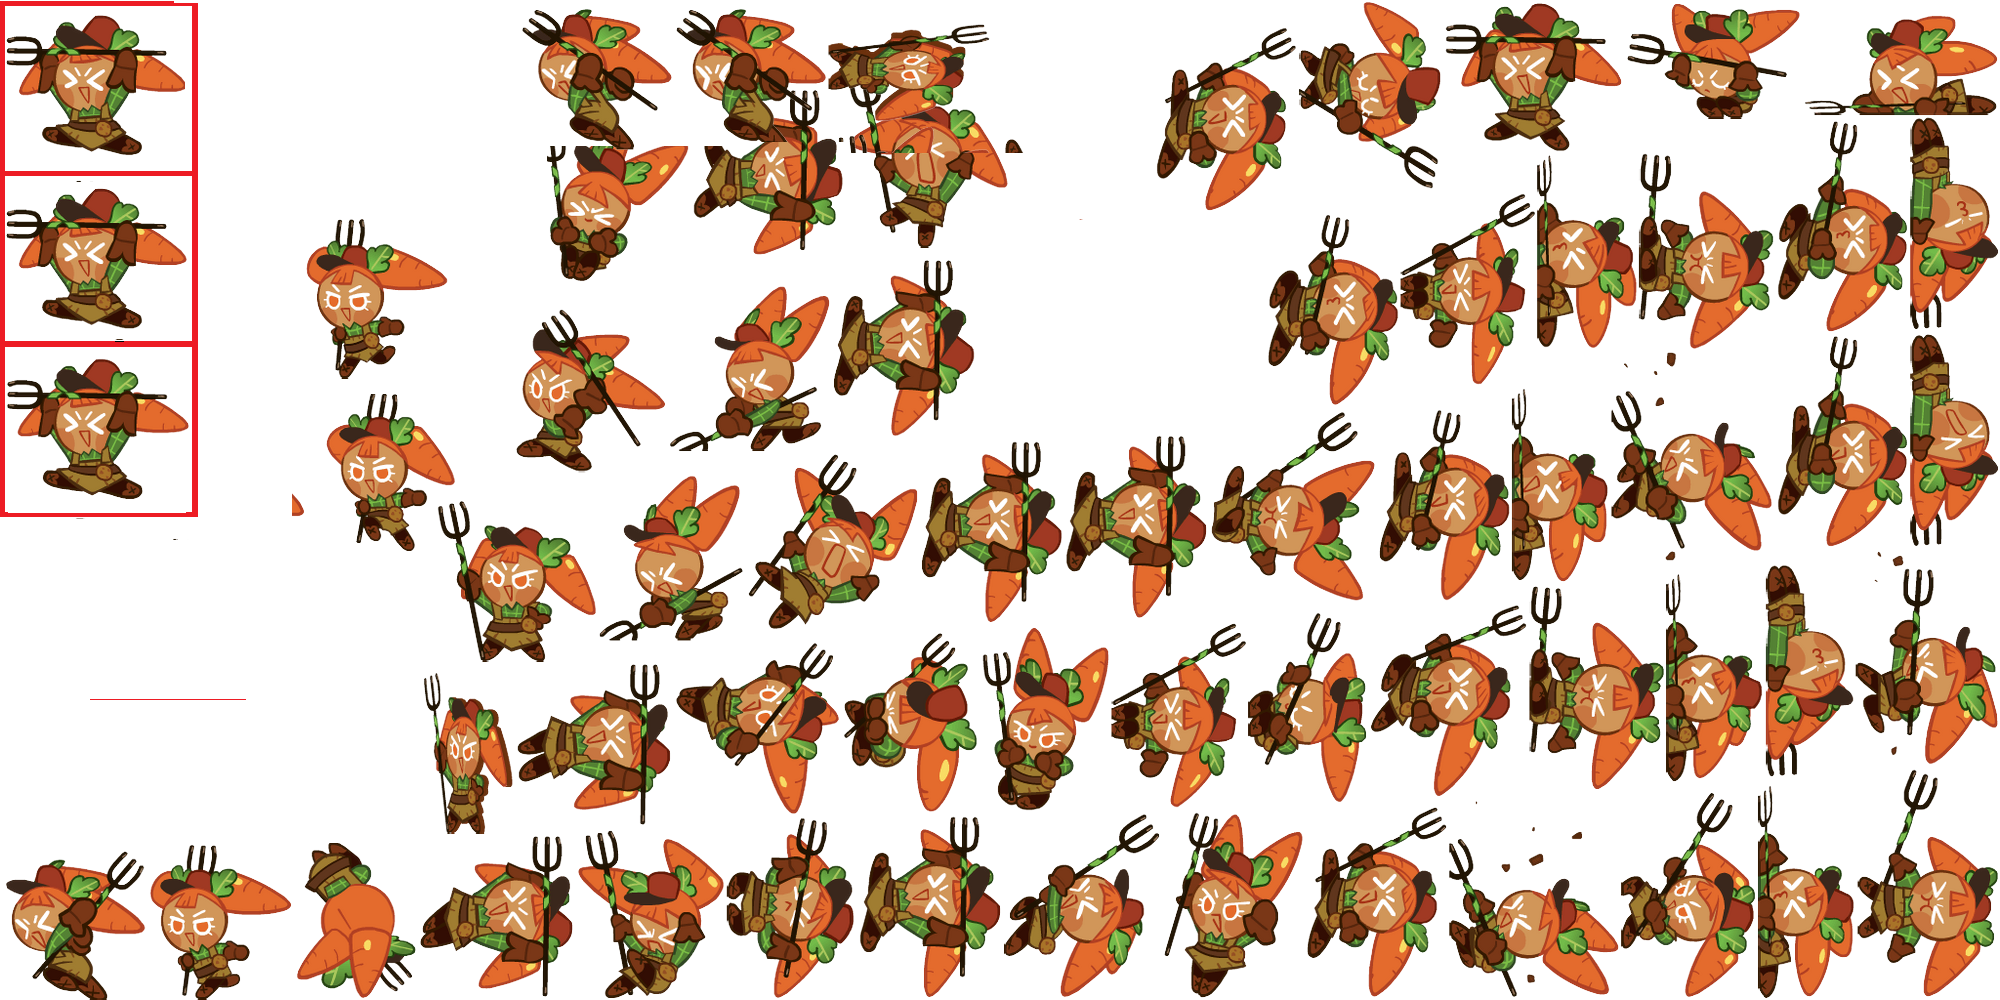
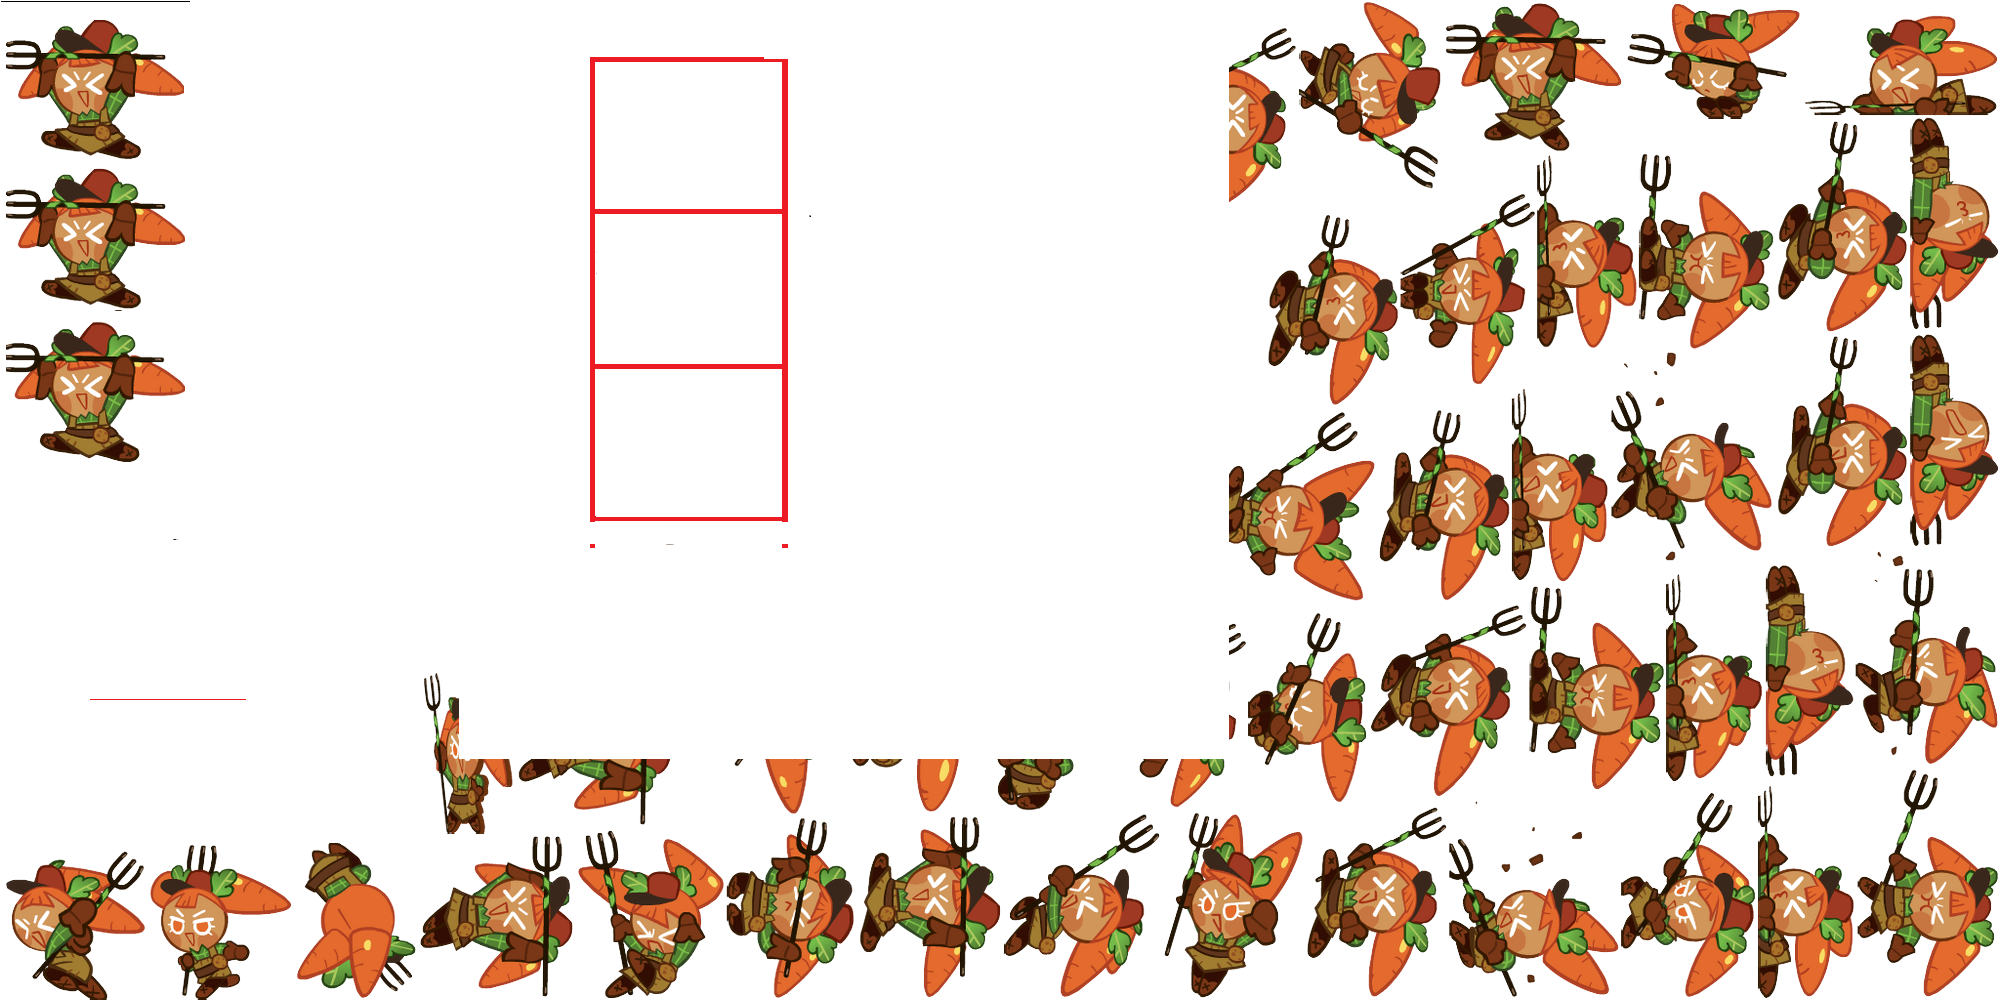
14:43

diff --git a/src/HandleResources.cpp b/src/HandleResources.cpp
@@ -577,9 +577,9 @@ void HandleResources::updateCarrotCookieAnimation()
 {
 	// need to check its okay!
 
-	const auto size = sf::Vector2i(159, 160);
-	const auto initSpace = sf::Vector2i(9, 7);
-	const auto middleSpace = sf::Vector2i(3, 0);
+	const auto size = sf::Vector2i(185, 150);
+	const auto initSpace = sf::Vector2i(1, 12);
+	const auto middleSpace = sf::Vector2i(0, 0);
 
 	auto currentStart = initSpace;
 
@@ -600,9 +600,9 @@ void HandleResources::updateCarrotCookieAnimation()
 //------------------------------------------------------------------------
 void HandleResources::updateZombieCookieAnimation()
 {
-	const auto size = sf::Vector2i(180, 125);
-	const auto initSpace = sf::Vector2i(3398, 593);
-	const auto middleSpace = sf::Vector2i(190, 0);
+	const auto size = sf::Vector2i(125, 170);
+	const auto initSpace = sf::Vector2i(1828, 115);
+	const auto middleSpace = sf::Vector2i(196, 0);
 
 	auto currentStart = initSpace;
 
@@ -706,8 +706,8 @@ void HandleResources::updateGardenAnimation()
 //-----------------------------------------------------------------------------------
 void HandleResources::updateFlagAnimation()
 {
-	const auto size = sf::Vector2i(289, 347);
-	const auto initSpace = sf::Vector2i(3,14);
+	const auto size = sf::Vector2i(289, 363);
+	const auto initSpace = sf::Vector2i(3,0);
 	const auto middleSpace = sf::Vector2i(90, 0);
 
 	auto currentStart = initSpace;

diff --git a/src/LevelPartGenerator.cpp b/src/LevelPartGenerator.cpp
@@ -93,7 +93,7 @@ level& LevelPartGenerator::getRandomLevel(int levelNumber)//, sf::Vector2f& flag
 		case 3:
 		{
 			lowerBound = 0;
-			upperBound =0;
+			upperBound =2;
 			break;
 		}
 	}
